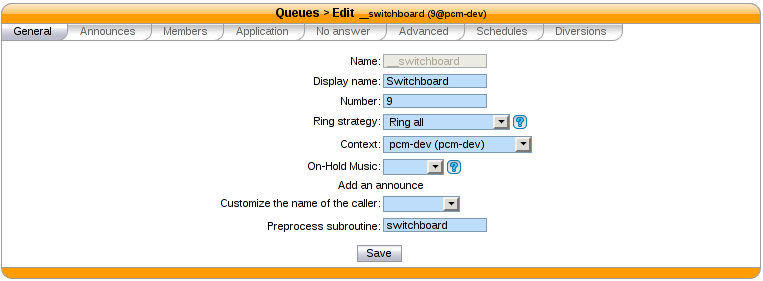
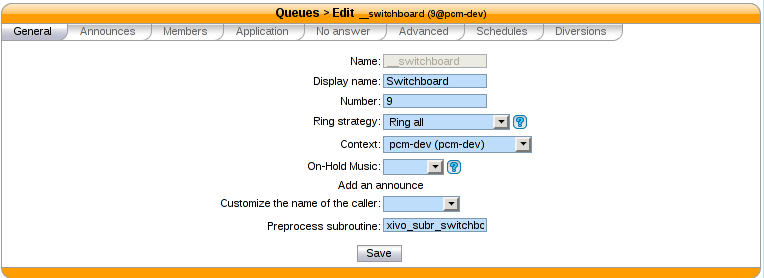
Change subroutines name to avoid future conflict

Changed region(s): [[0.0, 0.0, 1.0, 1.0], [0.2713, 0.3453, 0.6933, 0.8345]]

diff --git a/source/administration/switchboard/switchboard.rst b/source/administration/switchboard/switchboard.rst
@@ -72,17 +72,17 @@ Create the Preprocess Subroutines for the Switchboard Queue
 The following preprocess subroutines should be added to the dialplan to remove some
 queue specific actions that are not desirable for calls transfered from the switchboard.
 
-The *switchboard* preprocess subroutine sets the *XIVO_QUEUESUB* variable that will
+The *xivo_subr_switchboard* preprocess subroutine sets the *XIVO_QUEUESUB* variable that will
 be executed when the switchboard answers a call::
 
-    [switchboard]
-    exten = s,1,Set(XIVO_QUEUESUB=remove_from_queue)
+    [xivo_subr_switchboard]
+    exten = s,1,Set(XIVO_QUEUESUB=xivo_subr_remove_from_queue)
     same  =   n,Return()
 
-The *remove_from_queue* preprocess subroutine removes the *XIVO_FROMQUEUE* variable
+The *xivo_subr_remove_from_queue* preprocess subroutine removes the *XIVO_FROMQUEUE* variable
 from the channel::
 
-    [remove_from_queue]
+    [xivo_subr_remove_from_queue]
     exten = s,1,Set(__XIVO_FROMQUEUE=0)
     same  =   n,Return()
 
